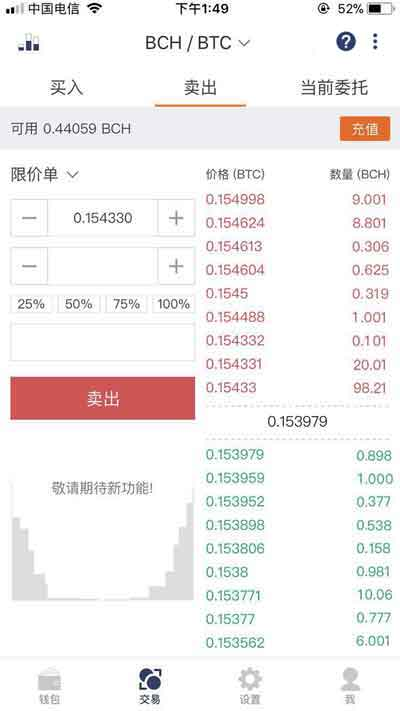
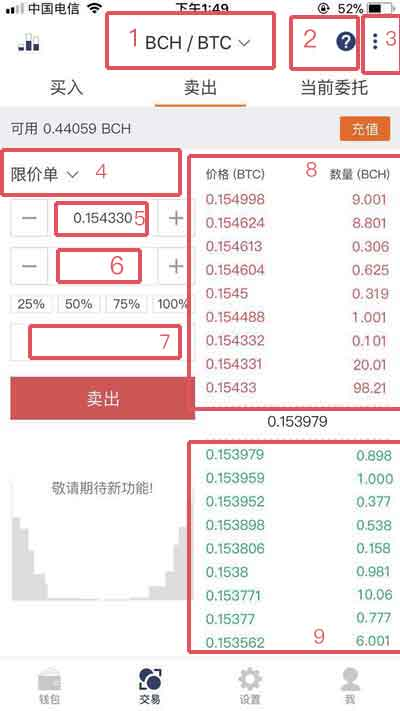
modify expie

diff --git a/Expie/index.rst b/Expie/index.rst
@@ -44,7 +44,7 @@ BCH/BTC 买入
 
 
 
-4、买入之后，可在当前委托查看您买入的订单，等待订单成交。如果买入订单有误可以在当前委托界面中撤单。
+4、买入之后，可在当前委托查看您买入的订单，等待订单成交。如果买入订单有误（在还没有成交的情况下）可以在当前委托界面中撤单。
 
 .. image:: ../img/btchistory.jpg
     :width: 320px
@@ -81,8 +81,10 @@ BCH/BTC 卖出
     :scale: 100%
     :align: center
 
+图中说明：1、切换交易对。 2、EXPIE LIMITED。 3､查看历史成交及交易流水。 4､下单类型。5､价格（BTC）。 6、数量（BCH）。 7、成交金额（BTC）。 8、卖单区。 9、买单区。
 
-4、卖出之后，可在当前当前委托查看您卖出的订单，等待订单成交。如果卖出订单有误可以在当前委托界面中撤单。
+
+4、卖出之后，可在当前当前委托查看您卖出的订单，等待订单成交。如果卖出订单有误（在还没有成交的情况下）可以在当前委托界面中撤单。
 
 5、订单成交之后，可在右上角三点查看历史成交及交易流水。
 
